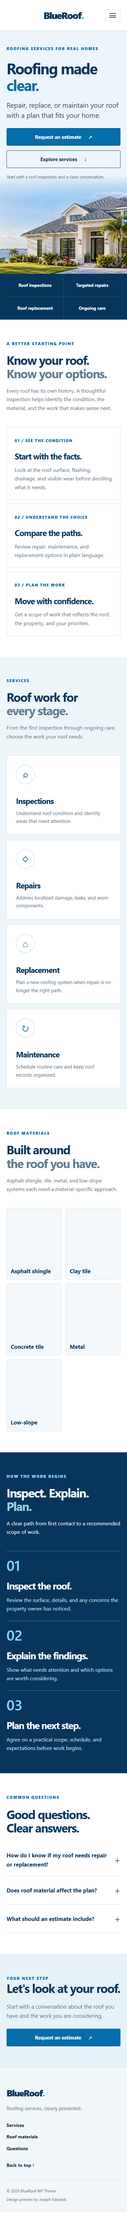
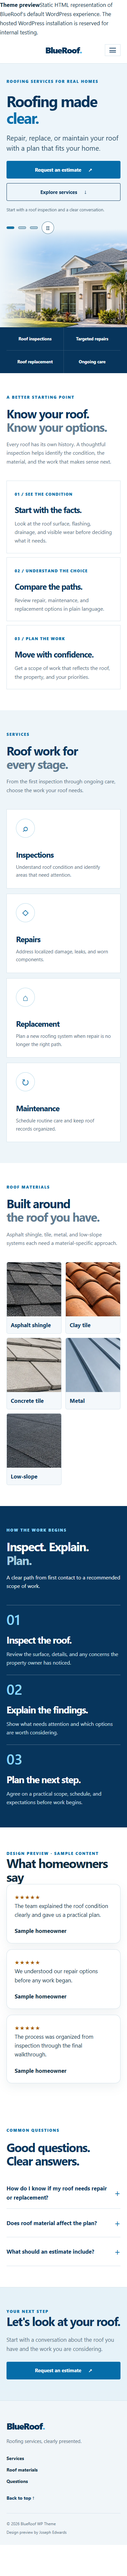
Showcase BlueRoof slider and review design

diff --git a/demo.html b/demo.html
@@ -29,14 +29,19 @@
 </div></header>
 <main id="main">
 <section class="rb-hero">
-  <div class="rb-hero-media"><picture><source srcset="assets/roofing-hero-960.webp 960w, assets/roofing-hero-1600.webp 1600w" sizes="(max-width: 680px) 100vw, 70vw" type="image/webp"><img src="assets/roofing-hero-1600.webp" width="1600" height="901" alt="Contemporary home with a well-maintained architectural roof" loading="eager" fetchpriority="high" decoding="async"></picture></div>
-  <div class="rb-hero-inner wrap"><div class="rb-hero-copy"><span class="eyebrow">ROOFING SERVICES FOR REAL HOMES</span><h1>Roofing made <span>clear.</span></h1><p class="rb-hero-lead">Repair, replace, or maintain your roof with a plan that fits your home.</p><div class="rb-actions"><a class="button" href="contact.html">Request an estimate <span aria-hidden="true">↗</span></a><a class="button button-ghost" href="#services">Explore services <span aria-hidden="true">↓</span></a></div><p class="rb-hero-note">Start with a roof inspection and a clear conversation.</p></div></div>
+  <div class="rb-hero-media rb-slider" data-rb-slider aria-label="Roofing project photos">
+    <figure class="rb-slide is-active"><picture><source srcset="assets/roofing-hero-960.webp 960w, assets/roofing-hero-1600.webp 1600w" sizes="(max-width: 680px) 100vw, 70vw" type="image/webp"><img src="assets/roofing-hero-1600.webp" width="1600" height="901" alt="Contemporary home with an architectural shingle roof" loading="eager" fetchpriority="high" decoding="async"></picture></figure>
+    <figure class="rb-slide"><img src="assets/roofing-hero-shingle.webp" width="1672" height="941" alt="Florida home with an architectural shingle roof" loading="lazy" decoding="async"></figure>
+    <figure class="rb-slide"><img src="assets/roofing-hero-clay.webp" width="1672" height="941" alt="Florida home with a clay tile roof" loading="lazy" decoding="async"></figure>
+  </div>
+  <div class="rb-hero-inner wrap"><div class="rb-hero-copy"><span class="eyebrow">ROOFING SERVICES FOR REAL HOMES</span><h1>Roofing made <span>clear.</span></h1><p class="rb-hero-lead">Repair, replace, or maintain your roof with a plan that fits your home.</p><div class="rb-actions"><a class="button" href="contact.html">Request an estimate <span aria-hidden="true">↗</span></a><a class="button button-ghost" href="#services">Explore services <span aria-hidden="true">↓</span></a></div><p class="rb-hero-note">Start with a roof inspection and a clear conversation.</p><div class="rb-slider-controls" aria-label="Choose a roof photo"><button type="button" class="is-active" data-rb-slide="0" aria-label="Show home roof photo" aria-current="true"></button><button type="button" data-rb-slide="1" aria-label="Show shingle photo"></button><button type="button" data-rb-slide="2" aria-label="Show tile photo"></button><button type="button" class="rb-slider-toggle" data-rb-play aria-label="Pause slideshow">Ⅱ</button></div></div></div>
 </section>
 <div class="rb-proof"><div class="wrap rb-proof-inner"><span>Roof inspections</span><span>Targeted repairs</span><span>Roof replacement</span><span>Ongoing care</span></div></div>
 <section class="rb-section wrap" id="approach"><div class="rb-section-head"><div><span class="eyebrow">A BETTER STARTING POINT</span><h2>Know your roof.<br><span>Know your options.</span></h2></div><p>Every roof has its own history. A thoughtful inspection helps identify the condition, the material, and the work that makes sense next.</p></div><div class="rb-intro-grid"><article class="rb-intro-card"><span class="rb-card-number">01 / SEE THE CONDITION</span><h3>Start with the facts.</h3><p>Look at the roof surface, flashing, drainage, and visible wear before deciding what it needs.</p></article><article class="rb-intro-card"><span class="rb-card-number">02 / UNDERSTAND THE CHOICE</span><h3>Compare the paths.</h3><p>Review repair, maintenance, and replacement options in plain language.</p></article><article class="rb-intro-card"><span class="rb-card-number">03 / PLAN THE WORK</span><h3>Move with confidence.</h3><p>Get a scope of work that reflects the roof, the property, and your priorities.</p></article></div></section>
 <section class="rb-section rb-services" id="services"><div class="wrap"><div class="rb-section-head"><div><span class="eyebrow">SERVICES</span><h2>Roof work for<br><span>every stage.</span></h2></div><p>From the first inspection through ongoing care, choose the work your roof needs.</p></div><div class="rb-service-grid"><article class="rb-service-card"><span class="rb-service-icon" aria-hidden="true">⌕</span><h3>Inspections</h3><p>Understand roof condition and identify areas that need attention.</p></article><article class="rb-service-card"><span class="rb-service-icon" aria-hidden="true">◇</span><h3>Repairs</h3><p>Address localized damage, leaks, and worn components.</p></article><article class="rb-service-card"><span class="rb-service-icon" aria-hidden="true">⌂</span><h3>Replacement</h3><p>Plan a new roofing system when repair is no longer the right path.</p></article><article class="rb-service-card"><span class="rb-service-icon" aria-hidden="true">↻</span><h3>Maintenance</h3><p>Schedule routine care and keep roof records organized.</p></article></div></div></section>
 <section class="rb-section wrap" id="materials"><div class="rb-section-head"><div><span class="eyebrow">ROOF MATERIALS</span><h2>Built around<br><span>the roof you have.</span></h2></div><p>Asphalt shingle, tile, metal, and low-slope systems each need a material-specific approach.</p></div><div class="rb-material-grid"><figure class="rb-material-card"><img src="assets/roof-shingle.webp" width="480" height="400" alt="Architectural asphalt shingles" loading="lazy" decoding="async"><figcaption>Asphalt shingle</figcaption></figure><figure class="rb-material-card"><img src="assets/roof-clay.webp" width="480" height="400" alt="Clay roof tile" loading="lazy" decoding="async"><figcaption>Clay tile</figcaption></figure><figure class="rb-material-card"><img src="assets/roof-tile.webp" width="480" height="400" alt="Concrete roof tile" loading="lazy" decoding="async"><figcaption>Concrete tile</figcaption></figure><figure class="rb-material-card"><img src="assets/roof-metal.webp" width="480" height="400" alt="Standing seam metal roof" loading="lazy" decoding="async"><figcaption>Metal</figcaption></figure><figure class="rb-material-card"><img src="assets/roof-asphalt.webp" width="480" height="400" alt="Low-slope asphalt roof surface" loading="lazy" decoding="async"><figcaption>Low-slope</figcaption></figure></div></section>
 <section class="rb-section rb-process" id="process"><div class="wrap"><div class="rb-section-head"><div><span class="eyebrow">HOW THE WORK BEGINS</span><h2>Inspect. Explain.<br><span>Plan.</span></h2></div><p>A clear path from first contact to a recommended scope of work.</p></div><div class="rb-process-grid"><article><strong>01</strong><h3>Inspect the roof.</h3><p>Review the surface, details, and any concerns the property owner has noticed.</p></article><article><strong>02</strong><h3>Explain the findings.</h3><p>Show what needs attention and which options are worth considering.</p></article><article><strong>03</strong><h3>Plan the next step.</h3><p>Agree on a practical scope, schedule, and expectations before work begins.</p></article></div></div></section>
+<section class="rb-reviews wrap" id="reviews" aria-label="Sample review design"><span class="eyebrow">DESIGN PREVIEW · SAMPLE CONTENT</span><h2>What homeowners say</h2><div class="rb-reviews-grid"><article class="rb-review"><span class="rb-review-stars" aria-label="5 out of 5 stars">★★★★★</span><p>The team explained the roof condition clearly and gave us a practical plan.</p><strong>Sample homeowner</strong></article><article class="rb-review"><span class="rb-review-stars" aria-label="5 out of 5 stars">★★★★★</span><p>We understood our repair options before any work began.</p><strong>Sample homeowner</strong></article><article class="rb-review"><span class="rb-review-stars" aria-label="5 out of 5 stars">★★★★★</span><p>The process was organized from inspection through the final walkthrough.</p><strong>Sample homeowner</strong></article></div></section>
 <section class="rb-section wrap rb-faq" id="questions"><div><span class="eyebrow">COMMON QUESTIONS</span><h2>Good questions.<br>Clear answers.</h2></div><div><details><summary>How do I know if my roof needs repair or replacement?</summary><p>A professional inspection can identify the extent of damage, age-related wear, and whether repairs would address the underlying issue.</p></details><details><summary>Does roof material affect the plan?</summary><p>Yes. Shingle, tile, metal, and low-slope systems have different components and repair methods. The assessment should account for the material on your home.</p></details><details><summary>What should an estimate include?</summary><p>Ask for the proposed scope, materials, timing, preparation, and any conditions that could change the work after closer inspection.</p></details></div></section>
 <section class="rb-section rb-contact" id="contact"><div class="wrap rb-contact-inner"><div><span class="eyebrow">YOUR NEXT STEP</span><h2>Let's look at your roof.</h2><p>Start with a conversation about the roof you have and the work you are considering.</p></div><a class="button" href="contact.html">Request an estimate <span aria-hidden="true">↗</span></a></div></section>
 

diff --git a/index.html b/index.html
@@ -62,7 +62,7 @@
         </a>
       </div>
       <p class="preview-disclaimer">Explore the default WordPress experience through this responsive HTML preview.</p>
-      <div class="hero-underbar"><span>VERSION <b>0.1.1</b></span><span>RESPONSIVE WORDPRESS THEME</span><span>DESIGN / ENGINEERING BY RAWPOWERED</span></div>
+      <div class="hero-underbar"><span>VERSION <b>0.2.0</b></span><span>RESPONSIVE WORDPRESS THEME</span><span>DESIGN / ENGINEERING BY RAWPOWERED</span></div>
     </section>
 
     <section class="section shell" id="overview">
@@ -94,7 +94,7 @@
           <article class="score-card"><div class="score-top"><span>01 / MOBILE</span><span>28 OCT 2026</span></div><div class="score-value">100<span>/100</span></div><p>Performance</p><div class="metric-list"><span><b>LCP</b> 1.2 s</span><span><b>FCP</b> 0.8 s</span><span><b>TBT</b> 0 ms</span><span><b>CLS</b> 0</span></div><a href="performance/2026-10-28/screenshots/2026-10-28T12-23-CDT_pagespeed-mobile.png"><img src="performance/2026-10-28/screenshots/2026-10-28T12-23-CDT_pagespeed-mobile.png" width="1440" height="1080" alt="Timestamped mobile PageSpeed Insights screenshot, showing a Performance score of 100" loading="lazy"></a></article>
           <article class="score-card"><div class="score-top"><span>02 / DESKTOP</span><span>28 OCT 2026</span></div><div class="score-value">100<span>/100</span></div><p>Performance</p><div class="metric-list"><span><b>LCP</b> 0.3 s</span><span><b>FCP</b> 0.3 s</span><span><b>TBT</b> 0 ms</span><span><b>CLS</b> 0</span></div><a href="performance/2026-10-28/screenshots/2026-10-28T12-24-CDT_pagespeed-desktop.png"><img src="performance/2026-10-28/screenshots/2026-10-28T12-24-CDT_pagespeed-desktop.png" width="1440" height="1080" alt="Timestamped desktop PageSpeed Insights screenshot, showing a Performance score of 100" loading="lazy"></a></article>
         </div>
-        <div class="evidence-note"><span class="note-mark">!</span><p>This October 28 lab run had no CrUX field data and recorded a missing theme script and meta description. Version 0.1.1 has since been installed: the script loads, mobile navigation works, and the homepage includes a meta description. The scores shown belong to the original run. Review the <a href="performance/2026-10-28/README.md">full dated log</a> for the original audit notes.</p></div>
+        <div class="evidence-note"><span class="note-mark">!</span><p>This October 28 lab run had no CrUX field data and recorded a missing theme script and meta description. Those issues were fixed in the next build. The scores shown are the original baseline, captured before the slider and reviews feature. Review the <a href="performance/2026-10-28/README.md">full dated log</a> for the audit notes.</p></div>
       </div>
     </section>
 
@@ -106,7 +106,7 @@
         </div>
         <div class="benefit-grid">
           <article class="benefit-card"><span class="card-number">01</span><h3>Guide the homeowner</h3><p>Organize inspection, repair, replacement, and maintenance information in a readable sequence.</p></article>
-          <article class="benefit-card"><span class="card-number">02</span><h3>Show the work clearly</h3><p>Use dedicated material visuals for asphalt shingles, clay tile, concrete tile, metal, and low-slope roofing.</p></article>
+          <article class="benefit-card"><span class="card-number">02</span><h3>Show the work clearly</h3><p>Lead with a three-photo roof slider, then show material visuals for shingles, tile, metal, and low-slope roofing.</p></article>
           <article class="benefit-card"><span class="card-number">03</span><h3>Keep the next action visible</h3><p>Prominent estimate links and a responsive navigation system help visitors find their way through the page.</p></article>
           <article class="benefit-card"><span class="card-number">04</span><h3>Adapt the brand</h3><p>Support a custom logo, adjustable logo sizing, a centered split menu, and a compact header on scroll.</p></article>
         </div>
@@ -124,7 +124,7 @@
           <article class="stack-card"><img class="stack-icon" src="assets/icons/wordpress-glass.webp" width="128" height="128" loading="lazy" alt=""><div><h3>WordPress</h3><p>Classic theme structure, menus, Customizer, and homepage pattern.</p></div></article>
           <article class="stack-card"><img class="stack-icon" src="assets/icons/html5-glass.webp" width="128" height="128" loading="lazy" alt=""><div><h3>HTML5</h3><p>Semantic content, native details, and accessible navigation labels.</p></div></article>
           <article class="stack-card"><img class="stack-icon" src="assets/icons/css3-glass.webp" width="128" height="128" loading="lazy" alt=""><div><h3>CSS3</h3><p>Responsive layout, branding controls, and reduced-motion support.</p></div></article>
-          <article class="stack-card"><img class="stack-icon" src="assets/icons/javascript-glass.webp" width="128" height="128" loading="lazy" alt=""><div><h3>Vanilla JavaScript</h3><p>Small deferred behavior for the menu and compact scroll header.</p></div></article>
+          <article class="stack-card"><img class="stack-icon" src="assets/icons/javascript-glass.webp" width="128" height="128" loading="lazy" alt=""><div><h3>Vanilla JavaScript</h3><p>Deferred menu, slider, and scroll effects with reduced-motion support.</p></div></article>
           <article class="stack-card"><img class="stack-icon" src="assets/icons/webp-glass.webp" width="128" height="128" loading="lazy" alt=""><div><h3>WebP imagery</h3><p>Responsive hero sources and lazy-loaded roof-material images.</p></div></article>
         </div>
         <aside class="requirements-card glass-card">
@@ -141,10 +141,10 @@
     <section class="section shell" id="release">
       <div class="release-panel glass-card">
         <div><p class="section-index">05 / PROJECT STATUS</p><h2>Explore the design.<br><span>See the build.</span></h2></div>
-        <div class="release-copy"><p>BlueRoof v0.1.1 brings a focused roofing homepage, responsive navigation, and a compact WordPress theme structure together. This repository documents the design and development work.</p><p>Explore the HTML preview, inspect desktop and mobile screenshots, and review the dated performance evidence. The preview contact form demonstrates the design without collecting information.</p><div class="release-actions"><a class="button button-primary" href="demo.html">Open static preview <span aria-hidden="true">↗</span></a><a class="button button-outline" href="https://github.com/RawPowered/BlueRoof-WP-Theme-Showcase">View showcase repository <span aria-hidden="true">↗</span></a></div></div>
+        <div class="release-copy"><p>BlueRoof v0.2.0 adds an interactive roof photo slider, subtle parallax, and a labeled review design. A separate reviews plugin is prepared for Google Places and Elementor when a business profile is connected.</p><p>Explore the HTML preview, inspect desktop and mobile screenshots, and review the dated performance evidence. The preview contact form demonstrates the design without collecting information.</p><div class="release-actions"><a class="button button-primary" href="demo.html">Open static preview <span aria-hidden="true">↗</span></a><a class="button button-outline" href="https://github.com/RawPowered/BlueRoof-WP-Theme-Showcase">View showcase repository <span aria-hidden="true">↗</span></a></div></div>
       </div>
     </section>
   </main>
-  <footer class="site-footer"><div class="shell footer-inner"><a class="brand-lockup" href="#top"><span class="brand-glyph" aria-hidden="true">R<span>/</span></span><span><strong>RAWPOWERED</strong><small>DESIGN / ENGINEERING</small></span></a><p>BlueRoof WP Theme · Case study · Version 0.1.1</p><a href="https://github.com/RawPowered">Joseph Edwards / GitHub ↗</a></div></footer>
+  <footer class="site-footer"><div class="shell footer-inner"><a class="brand-lockup" href="#top"><span class="brand-glyph" aria-hidden="true">R<span>/</span></span><span><strong>RAWPOWERED</strong><small>DESIGN / ENGINEERING</small></span></a><p>BlueRoof WP Theme · Case study · Version 0.2.0</p><a href="https://github.com/RawPowered">Joseph Edwards / GitHub ↗</a></div></footer>
 </body>
 </html>

diff --git a/assets/style.css b/assets/style.css
@@ -4,7 +4,7 @@ Theme URI: https://rawpowered.github.io/BlueRoof-WP-Theme-Showcase/
 Author: Joseph Edwards
 Author URI: https://github.com/RawPowered
 Description: A light, flexible roofing website theme with a centered split navigation and editorial service layouts.
-Version: 0.1.0
+Version: 0.2.0
 Requires at least: 6.6
 Requires PHP: 8.0
 Text Domain: blueroof-wp
@@ -41,8 +41,6 @@ p { margin: 0 0 1.25em; }
 .screen-reader-text { position: absolute; width: 1px; height: 1px; margin: -1px; padding: 0; overflow: hidden; clip: rect(0, 0, 0, 0); white-space: nowrap; border: 0; }
 .skip-link { position: fixed; top: -100px; left: 18px; z-index: 1000; background: var(--navy); color: #fff; padding: 12px 16px; }
 .skip-link:focus { top: 16px; }
-.preview-context { position: relative; z-index: 20; padding: 10px 24px; display: flex; align-items: center; justify-content: center; gap: 10px; color: #fff; background: var(--navy); font-size: 12px; line-height: 1.45; text-align: center; }
-.preview-context strong { color: #d5ff3f; text-transform: uppercase; letter-spacing: .08em; white-space: nowrap; }
 .button { display: inline-flex; align-items: center; justify-content: center; gap: 22px; border: 1px solid var(--blue); background: var(--blue); color: #fff; border-radius: 4px; min-height: 54px; padding: 14px 22px; font-size: 15px; line-height: 1.25; font-weight: 700; transition: background .2s, transform .2s; cursor: pointer; }
 .button:hover { background: var(--navy); transform: translateY(-2px); }
 .button-ghost { background: transparent; color: var(--navy); border-color: var(--navy); }
@@ -78,10 +76,32 @@ p { margin: 0 0 1.25em; }
 .menu-toggle, .mobile-panel { display: none; }
 
 .rb-hero { position: relative; min-height: 730px; background: #edf5fa; overflow: hidden; }
-.rb-hero-media { position: absolute; inset: 0 0 0 32%; }
-.rb-hero-media::after { content: ""; position: absolute; inset: 0; background: linear-gradient(90deg,#edf5fa 0%,#edf5fae8 13%,#edf5fa00 55%); }
+.rb-hero-media { position: absolute; inset: 0 0 0 40%; }
+.rb-hero-media { z-index: 0; -webkit-mask-image: linear-gradient(90deg,transparent 0%,#000 36%); mask-image: linear-gradient(90deg,transparent 0%,#000 36%); }
+.rb-hero-media::after { content: ""; position: absolute; inset: 0; z-index: 1; pointer-events: none; background: linear-gradient(90deg,#edf5fa 0%,#edf5fae8 13%,#edf5fa00 55%); }
 .rb-hero-media img { display: block; width: 100%; height: 100%; object-fit: cover; object-position: center; }
+.rb-slider { isolation: isolate; }
+.rb-slide { position: absolute; inset: 0; margin: 0; opacity: 0; visibility: hidden; transition: opacity .7s ease, visibility .7s; }
+.rb-slide.is-active { opacity: 1; visibility: visible; }
+.rb-slide picture { display: block; height: 100%; }
+.rb-slide img { transform: translate3d(0,var(--rb-parallax,0px),0) scale(1.06); will-change: transform; }
+.rb-slider-controls { display: flex; align-items: center; gap: 12px; margin-top: 25px; }
+.rb-slider-controls button { width: 38px; height: 38px; border: 1px solid #507b93; border-radius: 50%; background: #fff; color: #103c58; cursor: pointer; }
+.rb-slider-controls button:not(.rb-slider-toggle) { width: 24px; height: 8px; border-radius: 10px; background: #aac7d7; }
+.rb-slider-controls button.is-active { background: #0875aa; }
+.rb-slider-controls button:focus-visible { outline: 3px solid #0875aa; outline-offset: 3px; }
+.rb-reviews { padding: 70px 0; }
+.rb-reviews-grid { display: grid; grid-template-columns: repeat(3,minmax(0,1fr)); gap: 18px; }
+.rb-review { padding: 24px; border: 1px solid #d3e1e9; border-radius: 16px; background: #fff; box-shadow: 0 12px 30px #072b4010; }
+.rb-review p { font-size: 17px; line-height: 1.6; }
+.rb-review-stars { color: #a85b00; letter-spacing: .1em; }
+.rb-review-source { display: block; margin-top: 18px; font-size: 14px; color: #355b70; }
+.rb-review-author { display: flex; align-items: center; gap: 10px; }
+.rb-review-author img { width: 34px; height: 34px; border-radius: 50%; }
+@media(max-width:760px) { .rb-reviews-grid { grid-template-columns: 1fr; } }
+@media(prefers-reduced-motion: reduce) { .rb-slide { transition: none; } .rb-slide img { transform: none; } }
 .rb-hero-inner { position: relative; min-height: 730px; display: flex; align-items: center; }
+.rb-hero-inner { z-index: 2; }
 .rb-hero-copy { width: min(610px, 55%); padding-block: 80px; }
 .rb-hero .eyebrow { margin-bottom: 26px; }
 .rb-hero h1 { color: var(--navy); max-width: 670px; }
@@ -241,7 +261,6 @@ p { margin: 0 0 1.25em; }
   .content-with-sidebar { gap: 40px; grid-template-columns: minmax(0,1fr) 230px; }
 }
 @media(max-width: 680px) {
-  .preview-context { align-items: flex-start; flex-direction: column; gap: 2px; padding: 10px 18px; text-align: left; }
   body { font-size: 17px; }
   .wrap { width: calc(100% - 40px); }
   .text-logo { font-size: 26px; }

diff --git a/assets/site.js b/assets/site.js
@@ -37,3 +37,63 @@ window.addEventListener('scroll', () => {
 }, { passive: true });
 window.addEventListener('pageshow', updateHeader);
 updateHeader();
+
+document.querySelectorAll('[data-rb-slider]').forEach(slider => {
+  const hero = slider.closest('.rb-hero');
+  const slides = [...slider.querySelectorAll('.rb-slide')];
+  const controls = [...hero.querySelectorAll('[data-rb-slide]')];
+  const play = hero.querySelector('[data-rb-play]');
+  const motion = window.matchMedia('(prefers-reduced-motion: reduce)');
+  let current = 0;
+  let paused = motion.matches;
+  let timer;
+  const show = index => {
+    current = (index + slides.length) % slides.length;
+    slides.forEach((slide, i) => {
+      slide.classList.toggle('is-active', i === current);
+      slide.setAttribute('aria-hidden', String(i !== current));
+    });
+    controls.forEach((button, i) => {
+      button.classList.toggle('is-active', i === current);
+      if (i === current) button.setAttribute('aria-current', 'true');
+      else button.removeAttribute('aria-current');
+    });
+  };
+  const schedule = () => {
+    clearInterval(timer);
+    if (!paused && slides.length > 1) timer = setInterval(() => show(current + 1), 6500);
+  };
+  controls.forEach(button => button.addEventListener('click', () => {
+    show(Number(button.dataset.rbSlide));
+    schedule();
+  }));
+  play?.addEventListener('click', () => {
+    paused = !paused;
+    play.textContent = paused ? '▶' : 'Ⅱ';
+    play.setAttribute('aria-label', paused ? 'Play slideshow' : 'Pause slideshow');
+    schedule();
+  });
+  motion.addEventListener('change', () => {
+    paused = motion.matches;
+    if (play) {
+      play.textContent = paused ? '▶' : 'Ⅱ';
+      play.setAttribute('aria-label', paused ? 'Play slideshow' : 'Pause slideshow');
+    }
+    schedule();
+  });
+  const updateParallax = () => {
+    if (motion.matches || window.innerWidth < 761) {
+      slider.style.setProperty('--rb-parallax', '0px');
+      return;
+    }
+    const rect = hero.getBoundingClientRect();
+    if (rect.bottom > 0 && rect.top < innerHeight) {
+      slider.style.setProperty('--rb-parallax', `${Math.max(-40, Math.min(40, -rect.top * .08))}px`);
+    }
+  };
+  window.addEventListener('scroll', updateParallax, { passive: true });
+  window.addEventListener('resize', updateParallax, { passive: true });
+  show(0);
+  schedule();
+  updateParallax();
+});

diff --git a/README.md b/README.md
@@ -35,6 +35,8 @@ This public repository presents the product, design decisions, HTML representati
 - A homeowner-focused service journey with direct estimate and service links.
 - Responsive layouts for desktop and mobile.
 - A centered logo with balanced split navigation, custom logo support, and compact scroll header behavior.
+- A three-photo hero with manual controls, a pause button, and restrained desktop parallax. Reduced motion preferences are respected.
+- A clearly labeled sample reviews layout. A separate reviews plugin supports Google Places, a shortcode, and an optional Elementor widget when connected to a business profile.
 - Service sections for inspection, repair, replacement, and maintenance.
 - Material imagery for asphalt shingles, clay tile, concrete tile, metal, and low-slope roofing.
 - WordPress page, post, archive, search, comments, sidebar, and 404 templates.
@@ -52,7 +54,7 @@ This public repository presents the product, design decisions, HTML representati
     <td align="center"><img src="assets/icons/css3-glass.webp" width="112" alt="Clear glass CSS3 emblem"><br><strong>CSS3</strong><br>Responsive layouts and reduced motion support</td>
   </tr>
   <tr>
-    <td align="center"><img src="assets/icons/javascript-glass.webp" width="112" alt="Clear glass JavaScript emblem"><br><strong>Vanilla JavaScript</strong><br>Menu and scroll header interactions</td>
+    <td align="center"><img src="assets/icons/javascript-glass.webp" width="112" alt="Clear glass JavaScript emblem"><br><strong>Vanilla JavaScript</strong><br>Navigation, hero slider, and scroll effects</td>
     <td align="center"><img src="assets/icons/webp-glass.webp" width="112" alt="Clear glass WebP emblem"><br><strong>WebP</strong><br>Responsive roof imagery</td>
   </tr>
 </table>
@@ -63,11 +65,11 @@ No page builder is required by the theme design. The hosted test homepage was po
 
 The internal WordPress test homepage scored 100 Performance in a single PageSpeed Insights Lighthouse run on both device profiles. The evidence was captured on October 28, 2026 at 12:16:47 PM CDT. The dated [performance record](performance/2026-10-28/README.md) includes the test setup, category scores, timings, audit notes, and timestamped screenshots.
 
-The screenshots are shown at the top of this README so reviewers can inspect the underlying reports before reading the feature summary. PageSpeed reported no CrUX field data for the test URL, so these scores describe a controlled lab run.
+The screenshots are shown at the top of this README so reviewers can inspect the underlying reports before reading the feature summary. PageSpeed reported no CrUX field data for the test URL, so these scores describe a controlled lab run. The October 28 scores predate the slider and reviews work and are preserved as a dated baseline, not a current score claim.
 
 ## Project status
 
-Version `0.1.1` is installed and checked on WordPress. The update fixes the theme script path and adds a homepage meta description. The mobile navigation opens correctly.
+Version `0.2.0` is installed and checked on WordPress. The hosted homepage exercises the new slider and parallax. The independent reviews plugin rendered its labeled sample cards under both BlueRoof and Sunlectric Solar. Live Google reviews await the owner's API credentials and Place ID.
 
 The GitHub preview presents the default WordPress layout in HTML, including responsive navigation and scrolling behavior. Its contact form demonstrates the layout and does not submit information. Theme source is maintained privately.
 
